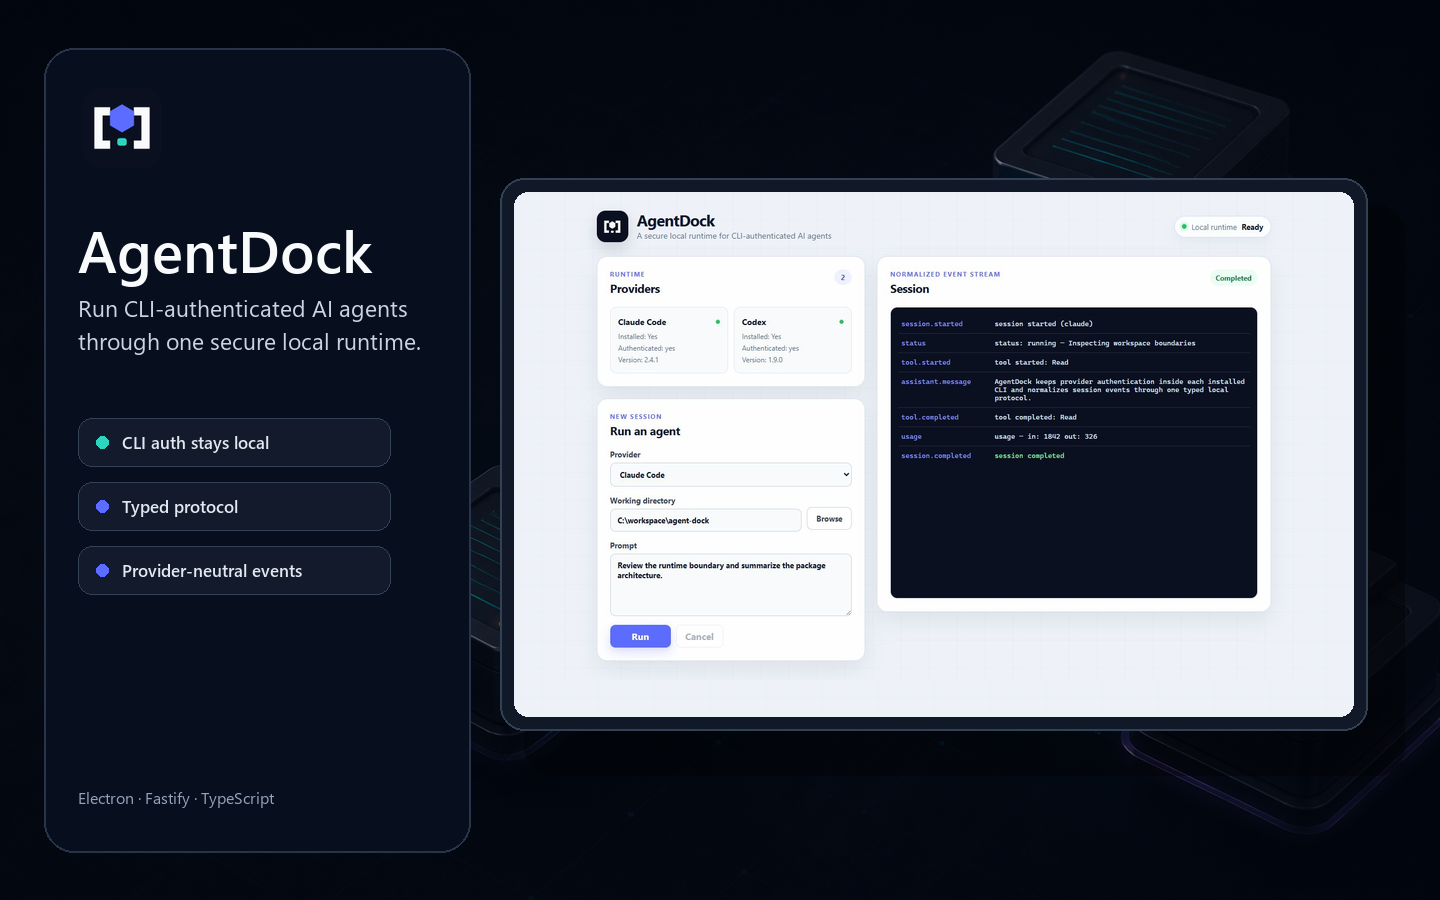
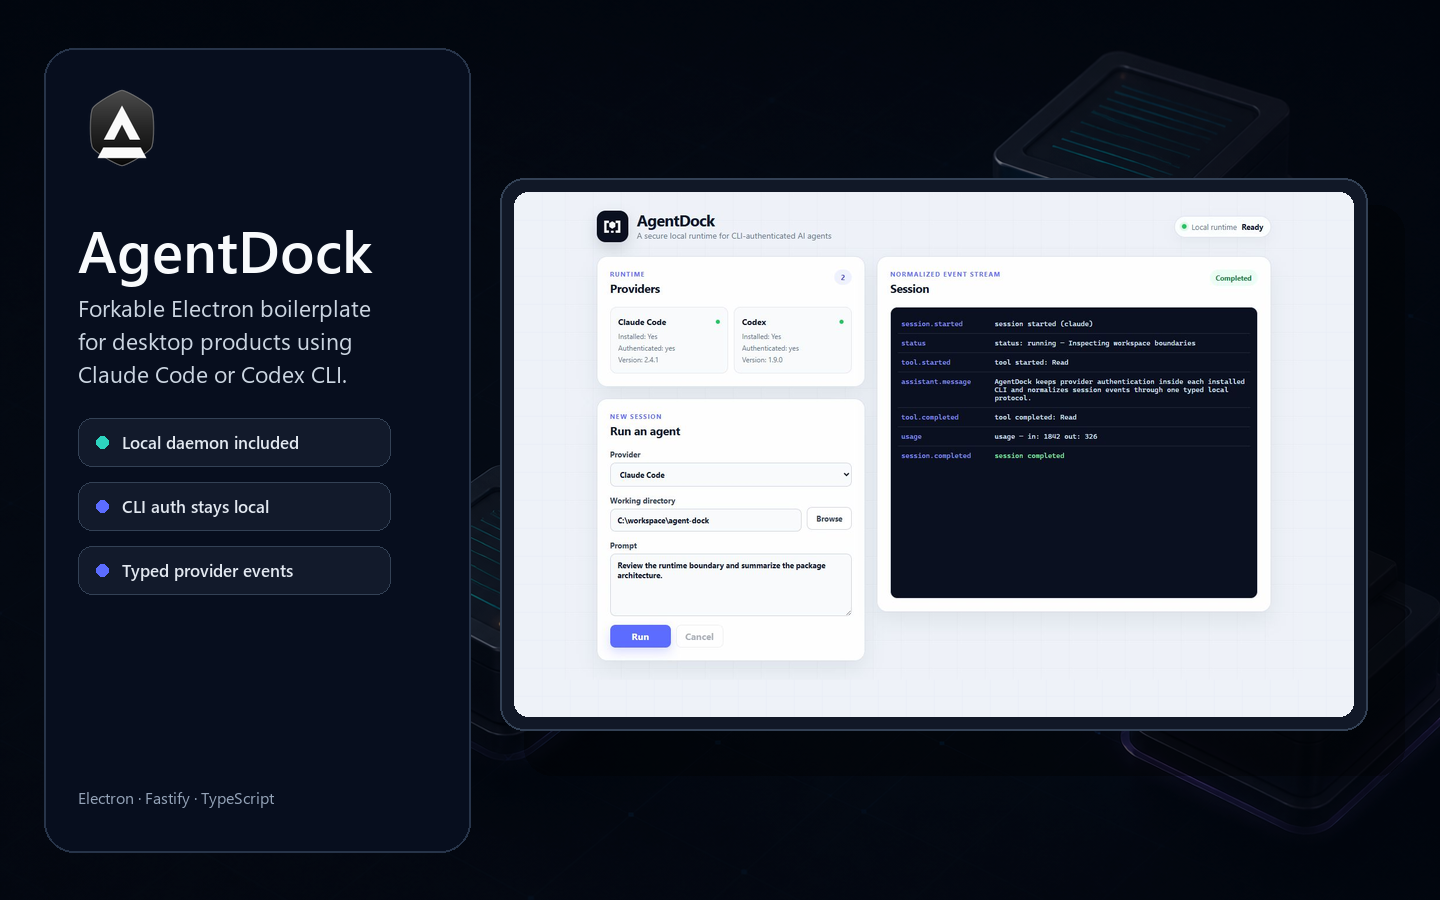
docs: restore AgentDock boilerplate positioning

diff --git a/scripts/assets/generate_assets.py b/scripts/assets/generate_assets.py
@@ -41,12 +41,24 @@ BLOCKED_ELEMENTS = {
     "use",
 }
 EXTERNAL_REFERENCE = re.compile(r"(?i)(?:https?|file|ftp):|data:|url\s*\(")
+LOCAL_FRAGMENT_REFERENCE = re.compile(
+    r"(?i)url\s*\(\s*(['\"]?)#[a-z_][\w:.-]*\1\s*\)"
+)
 LOCAL_PATH = re.compile(r"(?i)(?:[a-z]:[\\/]|/(?:home|users|tmp)/)")
 CSS_IMPORT = re.compile(r"(?i)@import\b")
 
 
 def local_name(value: str) -> str:
     return value.rsplit("}", 1)[-1].lower()
+
+
+def has_unsafe_reference(value: str) -> bool:
+    without_local_fragments = LOCAL_FRAGMENT_REFERENCE.sub("", value)
+    return bool(
+        EXTERNAL_REFERENCE.search(without_local_fragments)
+        or LOCAL_PATH.search(without_local_fragments)
+        or CSS_IMPORT.search(without_local_fragments)
+    )
 
 
 def assert_safe_svg(svg: bytes, source: Path = SOURCE) -> None:
@@ -66,11 +78,7 @@ def assert_safe_svg(svg: bytes, source: Path = SOURCE) -> None:
             raise ValueError(f"Blocked <{element_name}> element in {source}")
 
         for text in (element.text, element.tail):
-            if text and (
-                EXTERNAL_REFERENCE.search(text)
-                or LOCAL_PATH.search(text)
-                or CSS_IMPORT.search(text)
-            ):
+            if text and has_unsafe_reference(text):
                 raise ValueError(f"Blocked external or local text reference in {source}")
 
         for raw_name, value in element.attrib.items():
@@ -80,11 +88,7 @@ def assert_safe_svg(svg: bytes, source: Path = SOURCE) -> None:
                 raise ValueError(f"Blocked event attribute {attribute_name} in {source}")
             if attribute_name in {"href", "src"} and not normalized.startswith("#"):
                 raise ValueError(f"Blocked reference {attribute_name}={normalized!r} in {source}")
-            if (
-                EXTERNAL_REFERENCE.search(normalized)
-                or LOCAL_PATH.search(normalized)
-                or CSS_IMPORT.search(normalized)
-            ):
+            if has_unsafe_reference(normalized):
                 raise ValueError(f"Blocked external or local reference in {source}")
 
 

diff --git a/scripts/assets/generate_public_assets.py b/scripts/assets/generate_public_assets.py
@@ -150,13 +150,13 @@ def make_readme_and_portfolio() -> None:
     draw.text((78, 210), "AgentDock", fill=PAPER, font=font(58, bold=True))
     draw.multiline_text(
         (78, 292),
-        "Run CLI-authenticated AI agents\nthrough one secure local runtime.",
+        "Forkable Electron boilerplate\nfor desktop products using\nClaude Code or Codex CLI.",
         fill="#CBD5E1",
         font=font(23),
         spacing=8,
     )
 
-    chips = ("CLI auth stays local", "Typed protocol", "Provider-neutral events")
+    chips = ("Local daemon included", "CLI auth stays local", "Typed provider events")
     y = 418
     for label in chips:
         draw.rounded_rectangle((78, y, 390, y + 48), radius=14, fill="#121A2B", outline="#334155")
@@ -195,14 +195,14 @@ def make_social(width: int, height: int, filename: str) -> None:
     draw.text((pad, pad + icon_size + 28), "AgentDock", fill=PAPER, font=font(title_size, bold=True))
     draw.multiline_text(
         (pad, pad + icon_size + title_size + 50),
-        "Local AI agents.\nOne secure runtime.",
+        "Electron boilerplate.\nLocal daemon included.",
         fill="#CBD5E1",
         font=font(round(height * 0.043)),
         spacing=8,
     )
     draw.text(
         (pad, height - pad - 30),
-        "CLI-managed auth · typed events · provider-neutral",
+        "Fork it · Claude Code · Codex CLI",
         fill="#94A3B8",
         font=font(round(height * 0.027)),
     )
@@ -213,7 +213,7 @@ def make_asset_system_preview() -> None:
     canvas = Image.new("RGB", (1600, 1040), CANVAS)
     draw = ImageDraw.Draw(canvas)
     draw.text((70, 54), "AgentDock · Asset System", fill=INK, font=font(44, bold=True))
-    draw.text((70, 112), "Dock Gate identity · local runtime · provider-neutral", fill=SLATE, font=font(22))
+    draw.text((70, 112), "Forkable boilerplate · local daemon · provider-neutral", fill=SLATE, font=font(22))
 
     icon = Image.open(PNG_ICONS / "icon-512.png").convert("RGBA").resize((290, 290), Image.Resampling.LANCZOS)
     canvas.paste(icon, (70, 188), icon)

diff --git a/docs/capability-security-v2.md b/docs/capability-security-v2.md
@@ -1,14 +1,17 @@
 # Capability and security model for protocol v2
 
-- **Status:** accepted design gate, implementation pending
+- **Status:** partially implemented. The v2 contract, negotiation, routes, client API, legacy bridge,
+  interactive supervisor, and provider fixtures exist. Trust, isolation, durable audit/persistence,
+  native rich provider transports, and renderer work remain planned.
 - **Decision date:** 2026-08-30
-- **Applies to:** the planned `/v2` protocol and rich Claude/Codex transports
+- **Applies to:** the current `/v2` protocol and planned rich Claude/Codex transports
 - **Does not change:** the currently shipped protocol v1 behavior
 
-This document fixes the capability vocabulary and security decisions that every protocol v2,
-provider, persistence, and desktop ticket must implement. It is a contract for future work, not a
-claim that the v2 features exist today. [Protocol v1](protocol-v1.md) remains the authoritative
-description of the current application.
+This document fixes the capability vocabulary and security decisions for protocol v2, provider,
+persistence, and desktop work. Its capability schemas and negotiation rules are implemented. Its
+workspace trust, isolation, durable audit, retention, and rich-provider requirements remain future
+work. [Protocol v1](protocol-v1.md) remains the authoritative description of the unversioned v1
+application.
 
 ## Decision summary
 
@@ -36,20 +39,20 @@ description of the current application.
 
 ## Compatibility boundary
 
-| Concern            | Protocol v1, current                                                  | Protocol v2, planned                                                                            |
+| Concern            | Protocol v1, current                                                  | Protocol v2, current implementation and planned controls                                       |
 | ------------------ | --------------------------------------------------------------------- | ----------------------------------------------------------------------------------------------- |
-| Provider transport | One short-lived Claude/Codex CLI process per session                  | A negotiated, versioned transport with legacy CLI fallback                                      |
-| Input              | One prompt, then stdin closes                                         | Correlated commands, turns, approvals, and questions                                            |
-| Capability shape   | Optional booleans; unknown boolean keys pass through                  | Scoped support records with evidence, stability, prerequisites, and constraints                 |
-| Workspace trust    | No AgentDock trust state                                              | Default-untrusted, canonical workspace identity, project configuration gates                    |
-| Agent isolation    | Provider-owned behavior, not attested by AgentDock                    | Platform-specific state reported from verified enforcement                                      |
-| History            | Memory only; up to 5,000 events per session and 50 completed sessions | Bounded per-user persistence with explicit deletion and retention                               |
-| Credentials        | Full daemon environment inherited by the CLI; CLI owns login          | No designated auth-secret storage; documented environment/cloud or provider-owned login sources |
-| Approval/audit     | Provider-owned, with no AgentDock approval channel or audit           | Fail-closed AgentDock policy and durable decision metadata                                      |
+| Provider transport | One short-lived Claude/Codex CLI process per session                  | Negotiation and a `legacy-one-shot` bridge exist; native rich provider transports are planned   |
+| Input              | One prompt, then stdin closes                                         | Correlated commands, turns, approvals, and questions are implemented for the interactive path   |
+| Capability shape   | Optional booleans; unknown boolean keys pass through                  | Scoped support records, validation, and frozen negotiation selection are implemented            |
+| Workspace trust    | No AgentDock trust state                                              | Default-untrusted records exist; trust identity and configuration gates are planned              |
+| Agent isolation    | Provider-owned behavior, not attested by AgentDock                    | Verified platform-specific enforcement reporting is planned                                     |
+| History            | Memory only; up to 5,000 events per session and 50 completed sessions | In-memory v2 replay bounds exist; durable persistence, deletion, and retention are planned      |
+| Credentials        | Full daemon environment inherited by the CLI; CLI owns login          | No credential vault; source-specific authentication boundaries remain planned                    |
+| Approval/audit     | Provider-owned, with no AgentDock approval channel or audit           | The interactive supervisor handles correlation; durable audit-before-allow is planned            |
 
 Nothing in this decision retroactively adds workspace trust, approval enforcement, persistence, or
-sandboxing to v1. The unversioned v1 routes, schemas, runtime behavior, and tests remain unchanged
-until the separate v2 migration lands.
+sandboxing to v1. The unversioned v1 routes, schemas, runtime behavior, and tests remain unchanged.
+The additive v2 implementation does not yet provide those security controls.
 
 ## Capability vocabulary
 
@@ -470,7 +473,12 @@ until a fixture-backed adapter classification proves otherwise.
 
 ### Current adapter-tested behavior
 
-The current test suite proves only the v1 boolean contract. It does not create v2 support records.
+The current test suite covers the v1 boolean contract and the v2 schemas, negotiation, routes,
+client API, supervisor, and provider fixtures. The `legacy-one-shot` bridge creates conservative
+v2 support records from existing adapter booleans. A record is `supported` only when the adapter
+reports the behavior and its detected version has a matching checked-in compatibility fixture.
+Without that fixture, the bridge does not advertise support. The production Claude and Codex
+adapters still use this bridge; the interactive v2 path is exercised by `FakeProvider`.
 
 | V1 key         | Claude CLI adapter | Codex exec adapter | Closest v2 meaning                                         |
 | -------------- | -----------------: | -----------------: | ---------------------------------------------------------- |
@@ -480,9 +488,9 @@ The current test suite proves only the v1 boolean contract. It does not create v
 | `usage`        |             Tested |             Tested | `content.usage.tokens`; cost needs separate v2 evidence    |
 | `thinking`     |             Tested |             Tested | `content.thinking`, only when the CLI emits public content |
 
-The shared provider contract verifies normalization and lifecycle against fixtures. A generic Codex
-`mcp_tool_call` becoming `tool.started` does not prove MCP discovery, management, OAuth,
-elicitation, or approval capabilities.
+The shared provider contract and compatibility fixtures verify normalization and lifecycle. A
+generic Codex `mcp_tool_call` becoming `tool.started` does not prove MCP discovery, management,
+OAuth, elicitation, or approval capabilities.
 
 ### Vendor-described candidates
 
@@ -493,7 +501,7 @@ These sources justify implementation work but advertise no AgentDock support:
 | Codex app-server    | Rich-client authentication/history, threads and turns, approvals, streamed items, sandbox policies, images, structured output, MCP, skills, plugins, and hooks; individual methods can still be experimental | Unsupported until a versioned schema and fixtures pass           | [Codex app-server](https://developers.openai.com/codex/app-server)       |
 | Claude Agent SDK    | Sessions, tools, permissions, user input, MCP, hooks, skills/plugins, and subagents                                                                                                                          | Unsupported until auth, trust, packaging, and fixture gates pass | [Agent SDK overview](https://code.claude.com/docs/en/agent-sdk/overview) |
 
-This snapshot was reviewed on 2026-08-30. Each adapter compatibility manifest must pin the exact
+This status snapshot was reviewed on 2026-08-31. Each adapter compatibility manifest must pin the exact
 provider/SDK version and evidence set it supports. A documentation change or runtime self-report
 alone never widens that range.
 
@@ -879,7 +887,8 @@ explicit amendment to this document and a review of all dependent tickets.
 
 ## Non-goals
 
-- Implementing protocol v2, provider transports, persistence, or UI in this ticket
+- Implementing the remaining provider transports, persistence, trust controls, or renderer UI in
+  this design document
 - Storing credentials or building an AgentDock credential vault
 - Marketplace browsing/installation or arbitrary hook editing/execution
 - Treating permissions, worktrees, or Electron's renderer sandbox as OS process isolation

diff --git a/README.md b/README.md
@@ -5,29 +5,49 @@
   </picture>
 </p>
 
-<p align="center"><strong>Run CLI-authenticated AI agents through one secure, typed local runtime.</strong></p>
+<p align="center"><strong>Open-source Electron and local-daemon boilerplate for desktop apps that use a user's signed-in Claude Code or Codex CLI.</strong></p>
 
 <p align="center">Electron · Fastify · React · TypeScript · Apache-2.0</p>
 
 ![AgentDock desktop runtime](./docs/images/social/readme-hero.webp)
 
-AgentDock is a reusable desktop foundation for products that run prompts through AI agent CLIs
-the user already installed and authenticated. It starts with
-[Claude Code](https://docs.anthropic.com/en/docs/claude-code) and
-[Codex](https://github.com/openai/codex), while keeping credentials inside each provider's own CLI.
+AgentDock is built for fork-based reuse. Fork the repository, replace the reference workflow and
+visual identity, and keep the local runtime pieces your product needs. Users continue signing in
+through [Claude Code](https://docs.anthropic.com/en/docs/claude-code) or
+[Codex CLI](https://github.com/openai/codex), so AgentDock does not collect or proxy provider API
+keys.
 
-> [!NOTE]
-> AgentDock is infrastructure and a working reference desktop, not a finished chat product. It has
-> no accounts, cloud backend, persistent history, or opinionated end-user workflow.
+## What AgentDock is not
 
-## Why AgentDock
+AgentDock includes a working reference desktop, but it is not a finished chat product. It has no
+accounts, cloud backend, persistent history, or fixed end-user workflow. Those decisions belong in
+the product you build from the boilerplate.
+
+## Build your product with AgentDock
+
+1. Fork the repository and replace the reference UI with your product workflow.
+2. Keep daemon access in a trusted process. Never expose the daemon token to a renderer.
+3. Add persistence, accounts, and product data in your own layer. AgentDock's
+   `MemorySessionStore` is intentionally temporary.
+4. Replace `appId`, `productName`, and the default assets by following
+   [the asset guide](docs/assets.md).
+5. Run the build, test, and packaging checks, and review the security boundaries before
+   distribution.
+
+### Downstream example
+
+Open Vacancy Radar is a downstream product built from AgentDock. It keeps the Electron shell,
+local daemon, and connection to the user's signed-in Claude Code or Codex CLI, then adds a
+vacancy-focused workflow and its own product behavior.
+
+## What the boilerplate provides
 
 - **CLI authentication stays local.** AgentDock never asks for, reads, or proxies API keys.
 - **One provider-neutral protocol.** Claude and Codex output becomes a typed, ordered event stream.
 - **A deliberate trust boundary.** The sandboxed renderer talks only to Electron main over IPC;
   only the trusted main process can reach the authenticated loopback daemon.
-- **A real distribution path.** The repository builds a Windows NSIS installer with the daemon and
-  AgentDock's default visual identity included.
+- **Windows packaging.** The repository builds an NSIS installer with the daemon and AgentDock's
+  default visual identity included.
 
 ## Quick start
 
@@ -165,16 +185,6 @@ parsing, and the adapter, passing the shared contract suite, and registering it 
 The protocol and client remain provider-neutral; the reference desktop needs one selector option.
 
 Follow [the provider guide](docs/providers.md#adding-a-new-provider) for the complete checklist.
-
-## Building your product on AgentDock
-
-1. Fork the repository and replace the reference UI with your product workflow.
-2. Keep daemon access in a trusted process; never expose the daemon token to a renderer.
-3. Add persistence in your product layer. AgentDock's `MemorySessionStore` is intentionally
-   ephemeral.
-4. Replace `appId`, `productName`, and the default assets documented in
-   [the asset guide](docs/assets.md).
-5. Run the complete build, test, and packaging gates before distribution.
 
 ## Documentation
 

diff --git a/CONTRIBUTING.md b/CONTRIBUTING.md
@@ -1,6 +1,6 @@
 # Contributing
 
-Thanks for considering a contribution to Agent Dock. This is boilerplate meant to be forked and
+Thanks for considering a contribution to AgentDock. This is boilerplate meant to be forked and
 extended, so contributions here should stay in that spirit: keep the core small, provider-neutral,
 and easy for someone else to reason about after forking it.
 
@@ -64,7 +64,7 @@ pnpm typecheck   # strict TypeScript, no `any` without a comment justifying it
 pnpm lint
 pnpm test        # must pass without a real Claude/Codex install or any paid API call
 pnpm build
-pnpm audit       # electron-builder's own build-time deps are a known, documented exception —
+pnpm audit       # electron-builder's own build-time deps are a known, documented exception;
                  # see docs/packaging.md; nothing shipped in the app should show up here
 ```
 
@@ -97,8 +97,8 @@ If you're touching a provider adapter (`packages/agent-runtime/src/providers/*`)
 ## Code style
 
 - TypeScript strict mode, no `any` unless there's a comment explaining why it's unavoidable.
-- No comments explaining *what* code does: name things so that's obvious. A comment is for a
-  non-obvious *why*: a constraint, an invariant, a workaround for a specific CLI quirk.
+- No comments explaining _what_ code does: name things so that's obvious. A comment is for a
+  non-obvious _why_: a constraint, an invariant, a workaround for a specific CLI quirk.
 - Small, focused modules over one big file. If you're adding a provider, follow the existing
   `detect.ts` / `parser.ts` / `adapter.ts` split (see [docs/providers.md](docs/providers.md#adding-a-new-provider)).
 - No new abstraction or config surface for a hypothetical future need: this is boilerplate that
@@ -109,8 +109,8 @@ If you're touching a provider adapter (`packages/agent-runtime/src/providers/*`)
 Please open an issue before working on anything that would add: persistence (SQLite/a database),
 authentication of the app's own users, telemetry/analytics, a new heavy dependency, or a new
 provider mode (API-key based, cloud-hosted). These are explicitly out of scope for the current
-version (see the README's "What this is not" section) and may or may not be a direction the
-project wants to take.
+version (see [What AgentDock is not](README.md#what-agentdock-is-not)) and may or may not be a
+direction the project wants to take.
 
 ## License
 

diff --git a/docs/architecture.md b/docs/architecture.md
@@ -1,5 +1,14 @@
 # Architecture
 
+AgentDock is an open-source Electron and local-daemon boilerplate for desktop products that use a
+user's existing signed-in Claude Code or Codex CLI. It is designed to be forked. A product fork can
+replace the reference UI and workflow, set its own application identity, and keep or adapt the
+local runtime layers it needs.
+
+The runtime, protocol, security boundaries, provider adapters, tests, and packaging support that
+boilerplate purpose. They provide a working base and clear extension points rather than defining a
+finished chat product.
+
 This is the map of the repository: what each layer does, why it's shaped this way, and where to
 find the deeper detail. Wire-format detail lives in [protocol-v1.md](protocol-v1.md) and
 [protocol-v2.md](protocol-v2.md), while the v2 trust and capability decisions live in
@@ -25,7 +34,7 @@ those.
               ▼
 ┌─────────────────────────┐
 │   AgentDockClient           │   Typed daemon SDK: HTTP+SSE, bearer auth, protocol-
-│   (packages/client)        │   version compatibility check. No Electron dependency —
+│   (packages/client)        │   version compatibility check. No Electron dependency;
 │                             │   usable from any Node process. See docs/client-sdk.md.
 └─────────────┬────────────┘
               │ HTTP + SSE, http://127.0.0.1:<port>, Bearer token, protocol v1
@@ -114,7 +123,8 @@ Three reasons, in order of importance:
 
 ## Runtime flow: what happens when a user presses "Run"
 
-This is the current protocol v1 one-shot flow. The v2 supervisor has not been implemented.
+This is the protocol v1 one-shot flow. Protocol v2 now has a separate interactive supervisor,
+while the production Claude and Codex adapters still use the legacy one-shot bridge.
 
 1. Renderer calls `window.agentDock.createSession({ provider, cwd, prompt })`.
 2. Preload forwards it over IPC to `ipcMain.handle('daemon:create-session', ...)` in `main.ts`.
@@ -147,7 +157,7 @@ This is the current protocol v1 one-shot flow. The v2 supervisor has not been im
 
 ```ts
 type AgentSession = {
-  id: string; // daemon-generated UUID — never a process id
+  id: string; // daemon-generated UUID; never a process id
   provider: ProviderId;
   cwd: string;
   prompt: string;

diff --git a/docs/protocol-v2.md b/docs/protocol-v2.md
@@ -361,11 +361,15 @@ compatibility bridge retains its v1 process-runner limits.
 
 ## Current implementation boundary
 
-Issue #7 provides the provider-neutral supervisor, command endpoint, bounded SSE delivery, client
-API, and a narrow Electron bridge. `FakeProvider` exercises the rich path in deterministic tests.
-The production Claude and Codex adapters still select `legacy-one-shot`; native transport work is
-intentionally outside issue #7, gated by
-[issue #8](https://github.com/jortega0033/agentdock/issues/8)'s conformance fixtures, and tracked in
+The current v2 implementation provides shared schemas and negotiation, provider discovery,
+versioned session routes, client APIs, a provider-neutral supervisor, bounded SSE delivery, and a
+narrow Electron bridge. `FakeProvider` exercises the rich interactive path in deterministic tests.
+Compatibility fixtures pin the legacy Claude and Codex CLI paths, plus the fake interactive path,
+to exact provider versions, transports, and fixture sets.
+
+The production Claude and Codex adapters still select `legacy-one-shot`; no native rich provider
+transport is implemented. Workspace trust, verified isolation, durable audit/persistence, and
+native transport work remain outside the current slice and are tracked in
 [issues #10](https://github.com/jortega0033/agentdock/issues/10) and
 [#11](https://github.com/jortega0033/agentdock/issues/11). The existing React renderer still uses
 the v1 flow. A rich interactive timeline and multi-session UI remain separate work in
